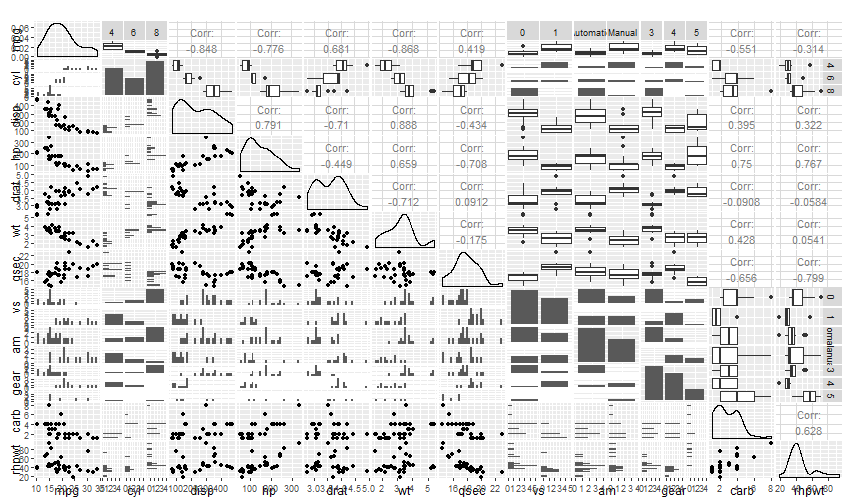
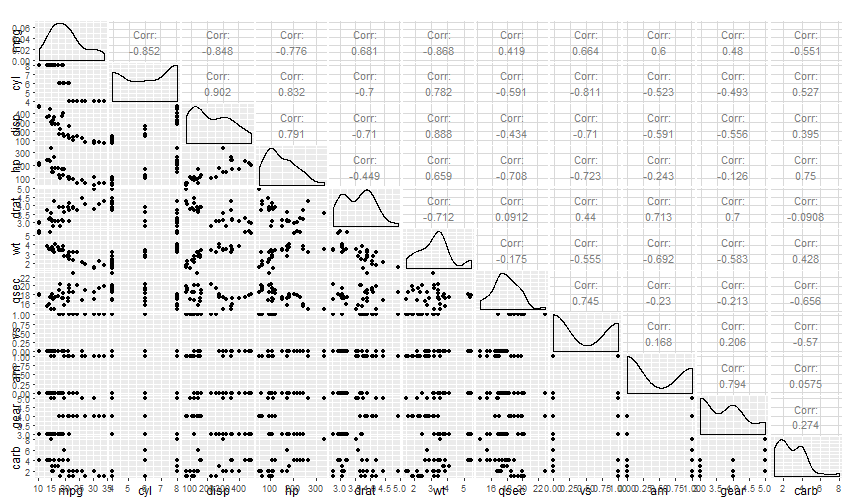
Make it related to the shinyapp

diff --git a/index.html b/index.html
@@ -1,9 +1,9 @@
 <!DOCTYPE html>
 <html>
 <head>
-  <title>Exploring mtcars</title>
+  <title>Interactive Regression Model</title>
   <meta charset="utf-8">
-  <meta name="description" content="Exploring mtcars">
+  <meta name="description" content="Interactive Regression Model">
   <meta name="author" content="Cutberto Paredes">
   <meta name="generator" content="slidify" />
   <meta name="apple-mobile-web-app-capable" content="yes">
@@ -38,7 +38,7 @@
     <!-- LOGO SLIDE -->
         <slide class="title-slide segue nobackground">
   <hgroup class="auto-fadein">
-    <h1>Exploring mtcars</h1>
+    <h1>Interactive Regression Model</h1>
     <h2>Slidify presentation for Developing Data Products</h2>
     <p>Cutberto Paredes<br/></p>
   </hgroup>
@@ -53,23 +53,11 @@
   </hgroup>
   <article data-timings="">
     <ul>
-<li><p>This is a brief exploration of the mtcars dataset that comes with R.</p></li>
-<li><p>First, let&#39;s declare as factors those variables that are actually factors.</p></li>
+<li><p>This shiny app let&#39;s the user build a regression model for mpg usin the mtcars
+dataset.</p></li>
+<li><p>You only have to select which regressors you wanna use and the app will return
+the coefficients, \(r^2\) values and a standardized residuals QQ plot.</p></li>
 </ul>
-
-<pre><code class="r">mtcars$am &lt;- factor(mtcars$am, labels = c(&#39;Automatic&#39;, &#39;Manual&#39;))
-mtcars$vs &lt;- factor(mtcars$vs)
-mtcars$gear &lt;- factor(mtcars$gear)
-mtcars$cyl &lt;- factor(mtcars$cyl)
-</code></pre>
-
-<ul>
-<li>Also, let&#39;s add a new field: \(hp/mt\). This value was found by Henderson and 
-Velleman (1981) to explain \(mpg\). We&#39;ll do regression in a bit.</li>
-</ul>
-
-<pre><code class="r">mtcars$rhpwt &lt;- mtcars$hp / mtcars$wt
-</code></pre>
 
   </article>
   <!-- Presenter Notes -->
@@ -77,10 +65,10 @@ Velleman (1981) to explain \(mpg\). We&#39;ll do regression in a bit.</li>
 
 <slide class="" id="slide-2" style="background:;">
   <hgroup>
-    <h2>Pairs Plot</h2>
+    <h2>Pairs plot</h2>
   </hgroup>
   <article data-timings="">
-    <p>This plot shows the correlation between pairs of variables.</p>
+    <p>This plot may help you select regressors.</p>
 
 <p><img src="figure/ggpairs-1.png" title="plot of chunk ggpairs" alt="plot of chunk ggpairs" style="display: block; margin: auto;" /></p>
 
@@ -90,29 +78,15 @@ Velleman (1981) to explain \(mpg\). We&#39;ll do regression in a bit.</li>
 
 <slide class="" id="slide-3" style="background:;">
   <hgroup>
-    <h2>Linear Regression Model</h2>
+    <h2>The app itself</h2>
   </hgroup>
   <article data-timings="">
-    <p>This command fits a linear regression model using \(hp\), \(rhpwt\) and \(am\) as 
-interacting regressors. Both \(r^2\) and coefficients are shown below.</p>
+    <ul>
+<li><p>The app is included below as an iframe, but it&#39;s also available here: <a href="https://cparedes.shinyapps.io/shiny/">https://cparedes.shinyapps.io/shiny/</a></p></li>
+<li><p>This is how it looks:</p></li>
+</ul>
 
-<pre><code class="r">fit &lt;- lm(mpg ~ hp*rhpwt*am, mtcars)
-</code></pre>
-
-<pre><code>## $r.squared
-## [1] 0.9050797
-## 
-## $coefficients
-##                        Estimate   Std. Error    t value     Pr(&gt;|t|)
-## (Intercept)       30.1797227127 5.0818758652  5.9386973 3.962412e-06
-## hp                -0.1132832138 0.0291274100 -3.8892306 6.967811e-04
-## rhpwt             -0.0211403656 0.1578945855 -0.1338891 8.946067e-01
-## amManual          12.4463523839 6.4096112306  1.9418264 6.398516e-02
-## hp:rhpwt           0.0008309843 0.0006894410  1.2053014 2.398370e-01
-## hp:amManual       -0.1730764675 0.0548228190 -3.1570151 4.261076e-03
-## rhpwt:amManual     0.0581582672 0.1757037872  0.3310018 7.435158e-01
-## hp:rhpwt:amManual  0.0012427207 0.0008448366  1.4709598 1.542928e-01
-</code></pre>
+<p><center><img src=figure/shinny.jpg></center></p>
 
   </article>
   <!-- Presenter Notes -->
@@ -123,9 +97,10 @@ interacting regressors. Both \(r^2\) and coefficients are shown below.</p>
     <h2>Interactive Plot</h2>
   </hgroup>
   <article data-timings="">
-    <p>This rCharts plot shows the relationship between \(mpg\) and \(rhpwt\).</p>
+    <p>This rCharts plot shows the relationship between \(mpg\) and \(hp\), a regressor I 
+suggest to include.</p>
 
-<p><iframe src=' figure/plot-1.html ' scrolling='no' frameBorder='0' seamless class='rChart polycharts ' id=iframe- chart5e417026cd1 ></iframe> <style>iframe.rChart{ width: 100%; height: 400px;}</style></p>
+<p><iframe src=' figure/plot-1.html ' scrolling='no' frameBorder='0' seamless class='rChart polycharts ' id=iframe- chart1b0c54a947a ></iframe> <style>iframe.rChart{ width: 100%; height: 400px;}</style></p>
 
   </article>
   <!-- Presenter Notes -->
@@ -143,13 +118,13 @@ interacting regressors. Both \(r^2\) and coefficients are shown below.</p>
     </li>
     <li>
       <a href="#" target="_self" rel='tooltip' 
-        data-slide=2 title='Pairs Plot'>
+        data-slide=2 title='Pairs plot'>
          2
       </a>
     </li>
     <li>
       <a href="#" target="_self" rel='tooltip' 
-        data-slide=3 title='Linear Regression Model'>
+        data-slide=3 title='The app itself'>
          3
       </a>
     </li>

diff --git a/figure/plot-1.html b/figure/plot-1.html
@@ -18,29 +18,28 @@
   </head>
   <body >
     
-    <div id = 'chart5e417026cd1' class = 'rChart polycharts'></div>    
+    <div id = 'chart1b0c54a947a' class = 'rChart polycharts'></div>    
     <script type='text/javascript'>
     var chartParams = {
- "dom": "chart5e417026cd1",
+ "dom": "chart1b0c54a947a",
 "width":    800,
 "height":    400,
 "layers": [
  {
- "x": "rhpwt",
+ "x": "hp",
 "y": "mpg",
 "data": {
  "mpg": [     21,     21,   22.8,   21.4,   18.7,   18.1,   14.3,   24.4,   22.8,   19.2,   17.8,   16.4,   17.3,   15.2,   10.4,   10.4,   14.7,   32.4,   30.4,   33.9,   21.5,   15.5,   15.2,   13.3,   19.2,   27.3,     26,   30.4,   15.8,   19.7,     15,   21.4 ],
-"cyl": [ "6", "6", "4", "6", "8", "6", "8", "4", "4", "6", "6", "8", "8", "8", "8", "8", "8", "4", "4", "4", "4", "8", "8", "8", "8", "4", "4", "4", "8", "6", "8", "4" ],
+"cyl": [      6,      6,      4,      6,      8,      6,      8,      4,      4,      6,      6,      8,      8,      8,      8,      8,      8,      4,      4,      4,      4,      8,      8,      8,      8,      4,      4,      4,      8,      6,      8,      4 ],
 "disp": [    160,    160,    108,    258,    360,    225,    360,  146.7,  140.8,  167.6,  167.6,  275.8,  275.8,  275.8,    472,    460,    440,   78.7,   75.7,   71.1,  120.1,    318,    304,    350,    400,     79,  120.3,   95.1,    351,    145,    301,    121 ],
 "hp": [    110,    110,     93,    110,    175,    105,    245,     62,     95,    123,    123,    180,    180,    180,    205,    215,    230,     66,     52,     65,     97,    150,    150,    245,    175,     66,     91,    113,    264,    175,    335,    109 ],
 "drat": [    3.9,    3.9,   3.85,   3.08,   3.15,   2.76,   3.21,   3.69,   3.92,   3.92,   3.92,   3.07,   3.07,   3.07,   2.93,      3,   3.23,   4.08,   4.93,   4.22,    3.7,   2.76,   3.15,   3.73,   3.08,   4.08,   4.43,   3.77,   4.22,   3.62,   3.54,   4.11 ],
 "wt": [   2.62,  2.875,   2.32,  3.215,   3.44,   3.46,   3.57,   3.19,   3.15,   3.44,   3.44,   4.07,   3.73,   3.78,   5.25,  5.424,  5.345,    2.2,  1.615,  1.835,  2.465,   3.52,  3.435,   3.84,  3.845,  1.935,   2.14,  1.513,   3.17,   2.77,   3.57,   2.78 ],
 "qsec": [  16.46,  17.02,  18.61,  19.44,  17.02,  20.22,  15.84,     20,   22.9,   18.3,   18.9,   17.4,   17.6,     18,  17.98,  17.82,  17.42,  19.47,  18.52,   19.9,  20.01,  16.87,   17.3,  15.41,  17.05,   18.9,   16.7,   16.9,   14.5,   15.5,   14.6,   18.6 ],
-"vs": [ "0", "0", "1", "1", "0", "1", "0", "1", "1", "1", "1", "0", "0", "0", "0", "0", "0", "1", "1", "1", "1", "0", "0", "0", "0", "1", "0", "1", "0", "0", "0", "1" ],
+"vs": [      0,      0,      1,      1,      0,      1,      0,      1,      1,      1,      1,      0,      0,      0,      0,      0,      0,      1,      1,      1,      1,      0,      0,      0,      0,      1,      0,      1,      0,      0,      0,      1 ],
 "am": [ "Manual", "Manual", "Manual", "Automatic", "Automatic", "Automatic", "Automatic", "Automatic", "Automatic", "Automatic", "Automatic", "Automatic", "Automatic", "Automatic", "Automatic", "Automatic", "Automatic", "Manual", "Manual", "Manual", "Automatic", "Automatic", "Automatic", "Automatic", "Automatic", "Manual", "Manual", "Manual", "Manual", "Manual", "Manual", "Manual" ],
-"gear": [ "4", "4", "4", "3", "3", "3", "3", "4", "4", "4", "4", "3", "3", "3", "3", "3", "3", "4", "4", "4", "3", "3", "3", "3", "3", "4", "5", "5", "5", "5", "5", "4" ],
-"carb": [      4,      4,      1,      1,      2,      1,      4,      2,      2,      4,      4,      3,      3,      3,      4,      4,      4,      1,      2,      1,      1,      2,      2,      4,      2,      1,      2,      2,      4,      6,      8,      2 ],
-"rhpwt": [ 41.985, 38.261, 40.086, 34.215, 50.872, 30.347, 68.627, 19.436, 30.159, 35.756, 35.756, 44.226, 48.257, 47.619, 39.048, 39.639, 43.031,     30, 32.198, 35.422, 39.351, 42.614, 43.668, 63.802, 45.514, 34.109, 42.523, 74.686, 83.281, 63.177, 93.838, 39.209 ] 
+"gear": [      4,      4,      4,      3,      3,      3,      3,      4,      4,      4,      4,      3,      3,      3,      3,      3,      3,      4,      4,      4,      3,      3,      3,      3,      3,      4,      5,      5,      5,      5,      5,      4 ],
+"carb": [      4,      4,      1,      1,      2,      1,      4,      2,      2,      4,      4,      3,      3,      3,      4,      4,      4,      1,      2,      1,      1,      2,      2,      4,      2,      1,      2,      2,      4,      6,      8,      2 ] 
 },
 "facet": null,
 "color": "am",
@@ -50,12 +49,12 @@
 "facet": [],
 "guides": [],
 "coord": [],
-"id": "chart5e417026cd1" 
+"id": "chart1b0c54a947a" 
 }
     _.each(chartParams.layers, function(el){
         el.data = polyjs.data(el.data)
     })
-    var graph_chart5e417026cd1 = polyjs.chart(chartParams);
+    var graph_chart1b0c54a947a = polyjs.chart(chartParams);
 </script>
     
     <script></script>    

diff --git a/index.md b/index.md
@@ -1,5 +1,5 @@
 ---
-title       : Exploring mtcars
+title       : Interactive Regression Model
 subtitle    : Slidify presentation for Developing Data Products
 author      : Cutberto Paredes
 job         : 
@@ -14,64 +14,32 @@ ext_widgets : {rCharts: [libraries/nvd3]}
 
 ## Introduction
 
-- This is a brief exploration of the mtcars dataset that comes with R.
+- This shiny app let's the user build a regression model for mpg usin the mtcars
+dataset.
 
-- First, let's declare as factors those variables that are actually factors.
-
-
-```r
-mtcars$am <- factor(mtcars$am, labels = c('Automatic', 'Manual'))
-mtcars$vs <- factor(mtcars$vs)
-mtcars$gear <- factor(mtcars$gear)
-mtcars$cyl <- factor(mtcars$cyl)
-```
-
-- Also, let's add a new field: $hp/mt$. This value was found by Henderson and 
-Velleman (1981) to explain $mpg$. We'll do regression in a bit.
-
-
-```r
-mtcars$rhpwt <- mtcars$hp / mtcars$wt
-```
+- You only have to select which regressors you wanna use and the app will return
+the coefficients, $r^2$ values and a standardized residuals QQ plot.
 
 ---
-## Pairs Plot
+## Pairs plot
 
-This plot shows the correlation between pairs of variables.
+This plot may help you select regressors.
 
 <img src="figure/ggpairs-1.png" title="plot of chunk ggpairs" alt="plot of chunk ggpairs" style="display: block; margin: auto;" />
 
 ---
-## Linear Regression Model
+## The app itself
 
-This command fits a linear regression model using $hp$, $rhpwt$ and $am$ as 
-interacting regressors. Both $r^2$ and coefficients are shown below.
+- The app is included below as an iframe, but it's also available here: https://cparedes.shinyapps.io/shiny/
 
+- This is how it looks:
 
-```r
-fit <- lm(mpg ~ hp*rhpwt*am, mtcars)
-```
-
-
-```
-## $r.squared
-## [1] 0.9050797
-## 
-## $coefficients
-##                        Estimate   Std. Error    t value     Pr(>|t|)
-## (Intercept)       30.1797227127 5.0818758652  5.9386973 3.962412e-06
-## hp                -0.1132832138 0.0291274100 -3.8892306 6.967811e-04
-## rhpwt             -0.0211403656 0.1578945855 -0.1338891 8.946067e-01
-## amManual          12.4463523839 6.4096112306  1.9418264 6.398516e-02
-## hp:rhpwt           0.0008309843 0.0006894410  1.2053014 2.398370e-01
-## hp:amManual       -0.1730764675 0.0548228190 -3.1570151 4.261076e-03
-## rhpwt:amManual     0.0581582672 0.1757037872  0.3310018 7.435158e-01
-## hp:rhpwt:amManual  0.0012427207 0.0008448366  1.4709598 1.542928e-01
-```
+<center><img src=figure/shinny.jpg></center>
 
 ---
 ## Interactive Plot
 
-This rCharts plot shows the relationship between $mpg$ and $rhpwt$.
+This rCharts plot shows the relationship between $mpg$ and $hp$, a regressor I 
+suggest to include.
 
-<iframe src=' figure/plot-1.html ' scrolling='no' frameBorder='0' seamless class='rChart polycharts ' id=iframe- chart5e417026cd1 ></iframe> <style>iframe.rChart{ width: 100%; height: 400px;}</style>
+<iframe src=' figure/plot-1.html ' scrolling='no' frameBorder='0' seamless class='rChart polycharts ' id=iframe- chart1b0c54a947a ></iframe> <style>iframe.rChart{ width: 100%; height: 400px;}</style>
